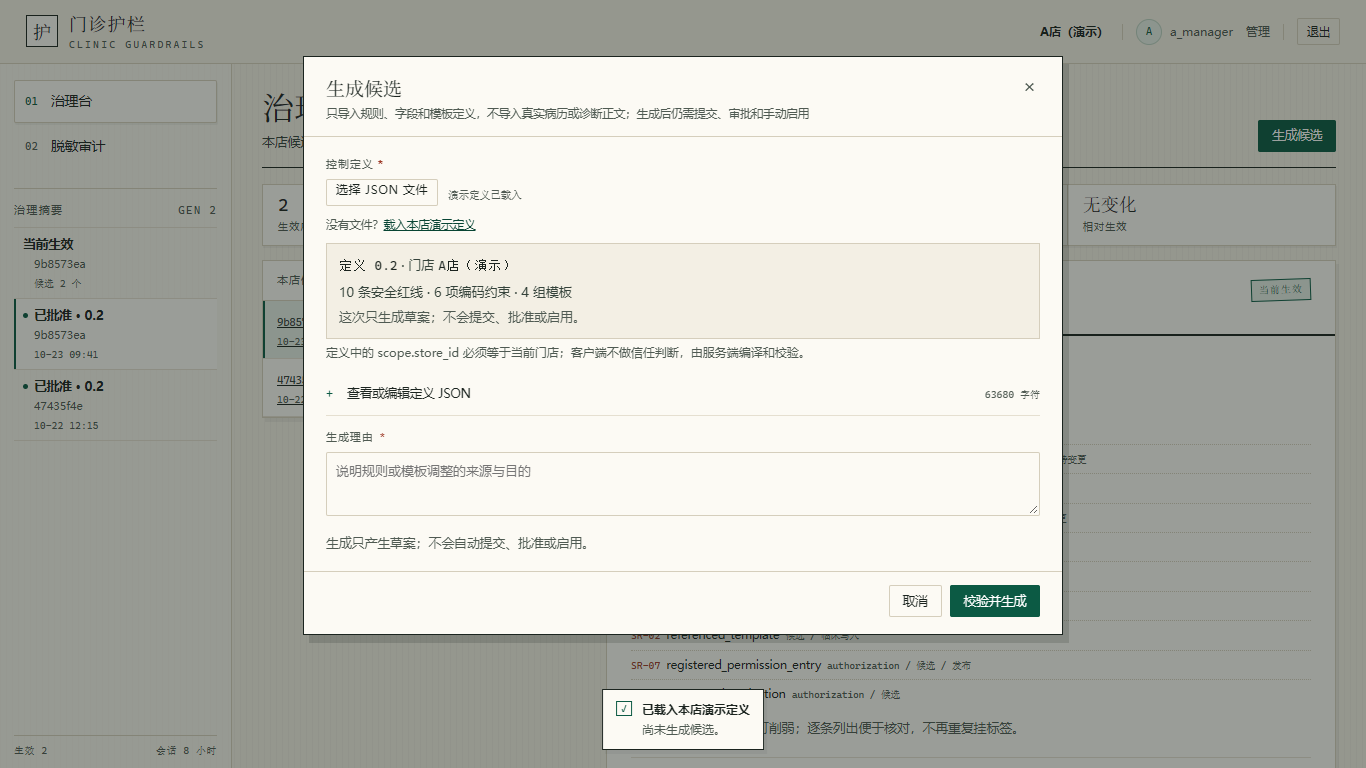
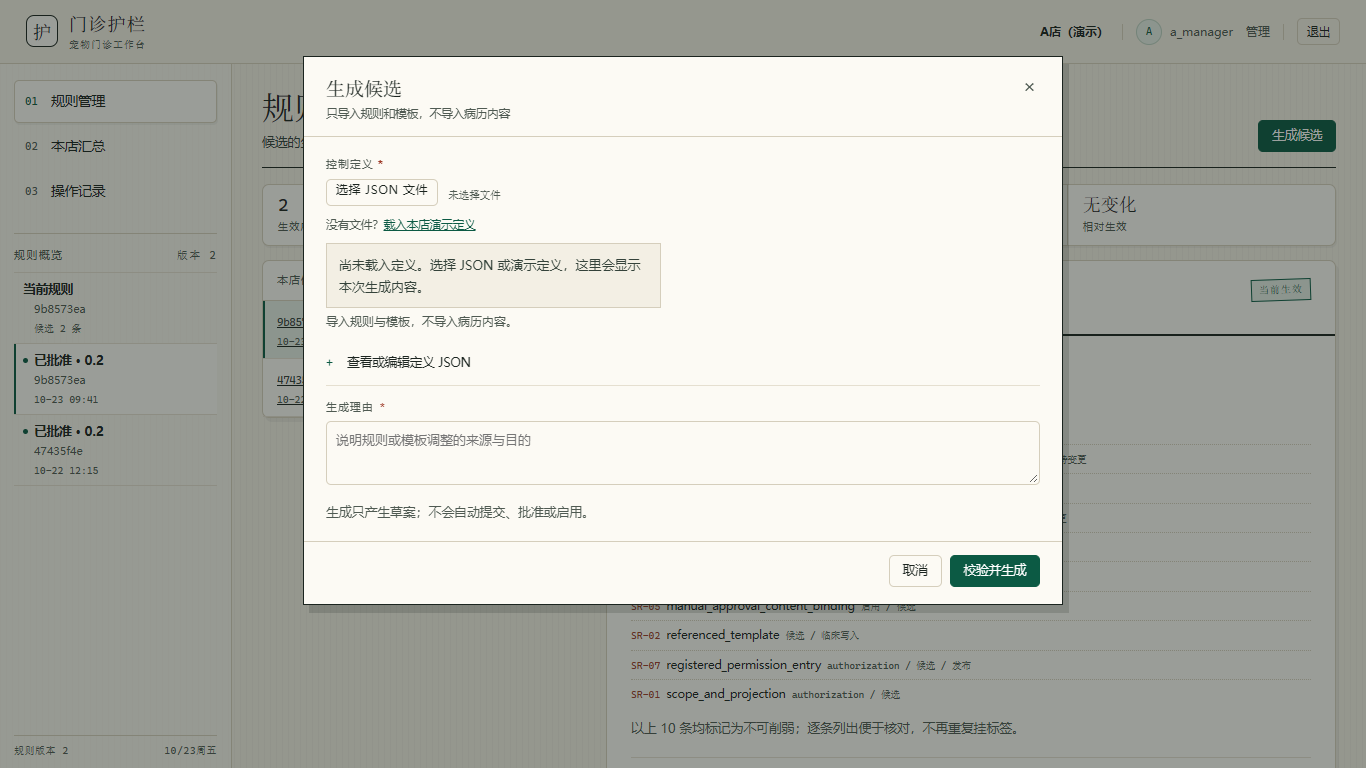
copy: shorten modal subtitles and definition hint

diff --git a/05_系统代码/frontend/assets/app.js b/05_系统代码/frontend/assets/app.js
@@ -2081,7 +2081,7 @@ function openGenerateCandidate() {
           <span class="file-name" id="definition-file-name">未选择文件</span>
         </div>
         <div class="file-alt">没有文件？<button class="btn-link" type="button" data-action="example-definition">载入本店演示定义</button></div>
-        <div class="definition-summary" id="definition-summary">尚未载入定义。选择 JSON 文件，或载入本店演示定义；这里会先显示这次要生成什么。</div>
+        <div class="definition-summary" id="definition-summary">尚未载入定义。选择 JSON 或演示定义，这里会显示本次生成内容。</div>
         <p class="hint">导入规则与模板，不导入病历内容。</p>
       </div>
       <details class="details" style="margin:10px 0 12px"><summary>查看或编辑定义 JSON<em id="definition-size"></em></summary><div class="inner"><textarea id="definition-json" name="definition" style="min-height:180px" placeholder="粘贴定义 JSON，或选择文件"></textarea></div></details>
@@ -2102,7 +2102,7 @@ function updateDefinitionSummary() {
   if (size) size.textContent = raw ? raw.length + ' 字符' : '';
   box.classList.remove('bad');
   if (!raw) {
-    box.textContent = '尚未载入定义。选择 JSON 文件，或载入本店演示定义；这里会先显示这次要生成什么。';
+    box.textContent = '尚未载入定义。选择 JSON 或演示定义，这里会显示本次生成内容。';
     return;
   }
   let d;

diff --git a/05_系统代码/frontend/assets/styles.css b/05_系统代码/frontend/assets/styles.css
@@ -520,7 +520,7 @@ code,.mono{font-family:var(--mono);font-size:11.5px;letter-spacing:.02em}
 .file-alt{font-size:11.5px;color:var(--muted);margin:0 0 9px}
 .btn-link{border:0;background:none;color:var(--green);text-decoration:underline;padding:0;font-size:11.5px;cursor:pointer}
 .btn-link:hover{color:var(--green-deep)}
-.definition-summary{border:1px solid var(--line);background:var(--paper);padding:10px 12px;font-size:13px;line-height:1.65;color:var(--ink-soft)}
+.definition-summary{border:1px solid var(--line);background:var(--paper);padding:10px 12px;font-size:13px;line-height:1.65;color:var(--ink-soft);max-width:44ch}
 .definition-summary b{font-family:var(--mono);font-weight:400;color:var(--ink)}
 .definition-summary.bad{border-color:var(--rust-line);background:var(--rust-wash);color:var(--rust-deep)}
 @media (prefers-reduced-motion:reduce){*,*:before,*:after{animation-duration:.001ms !important;transition-duration:.001ms !important}}
